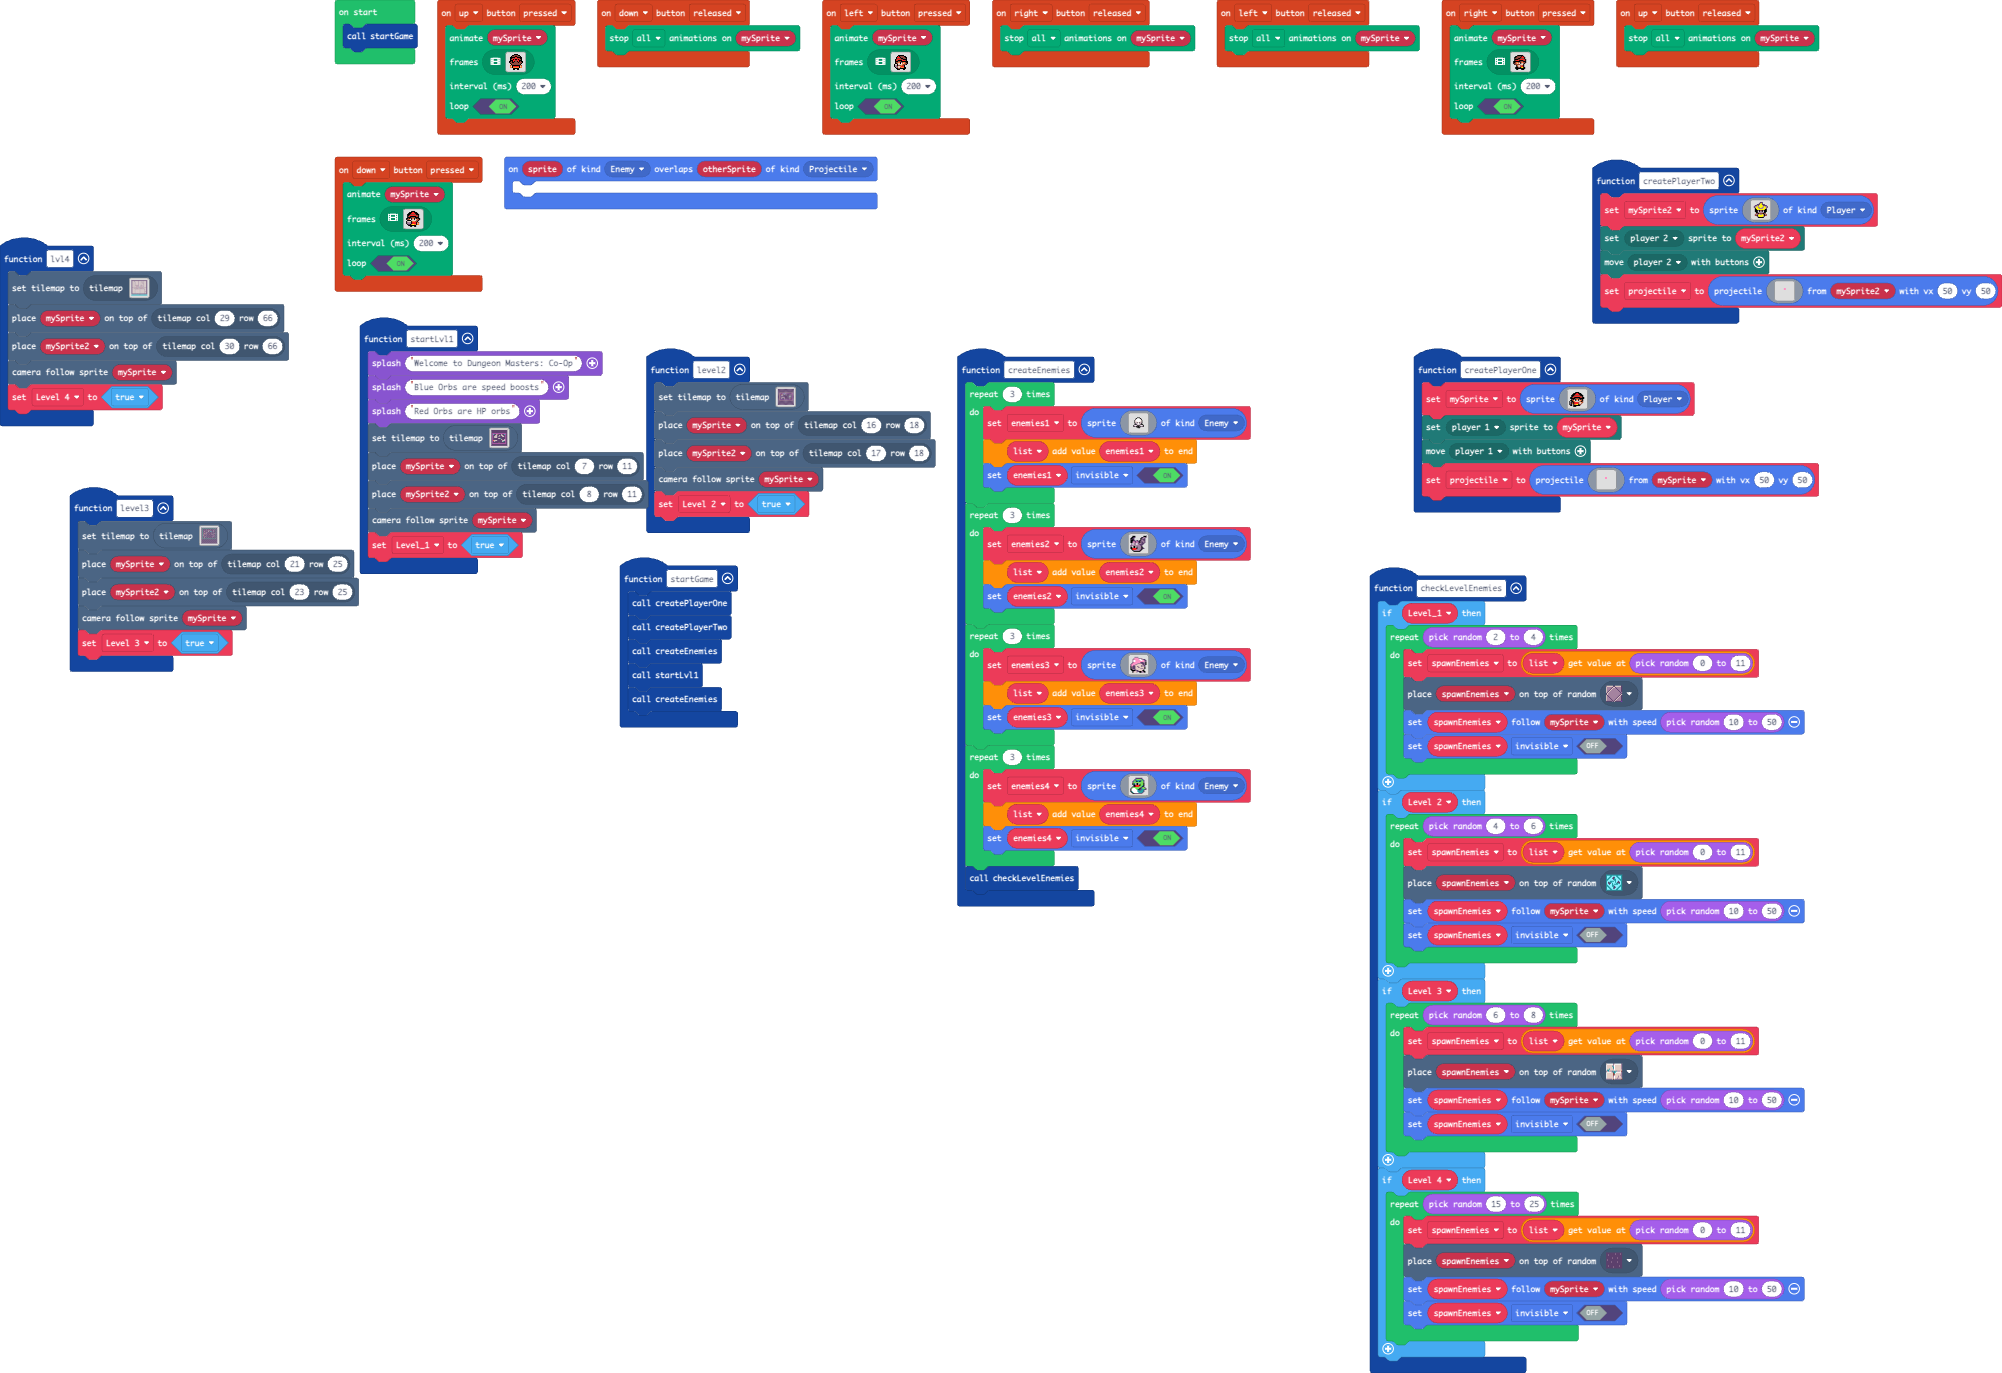
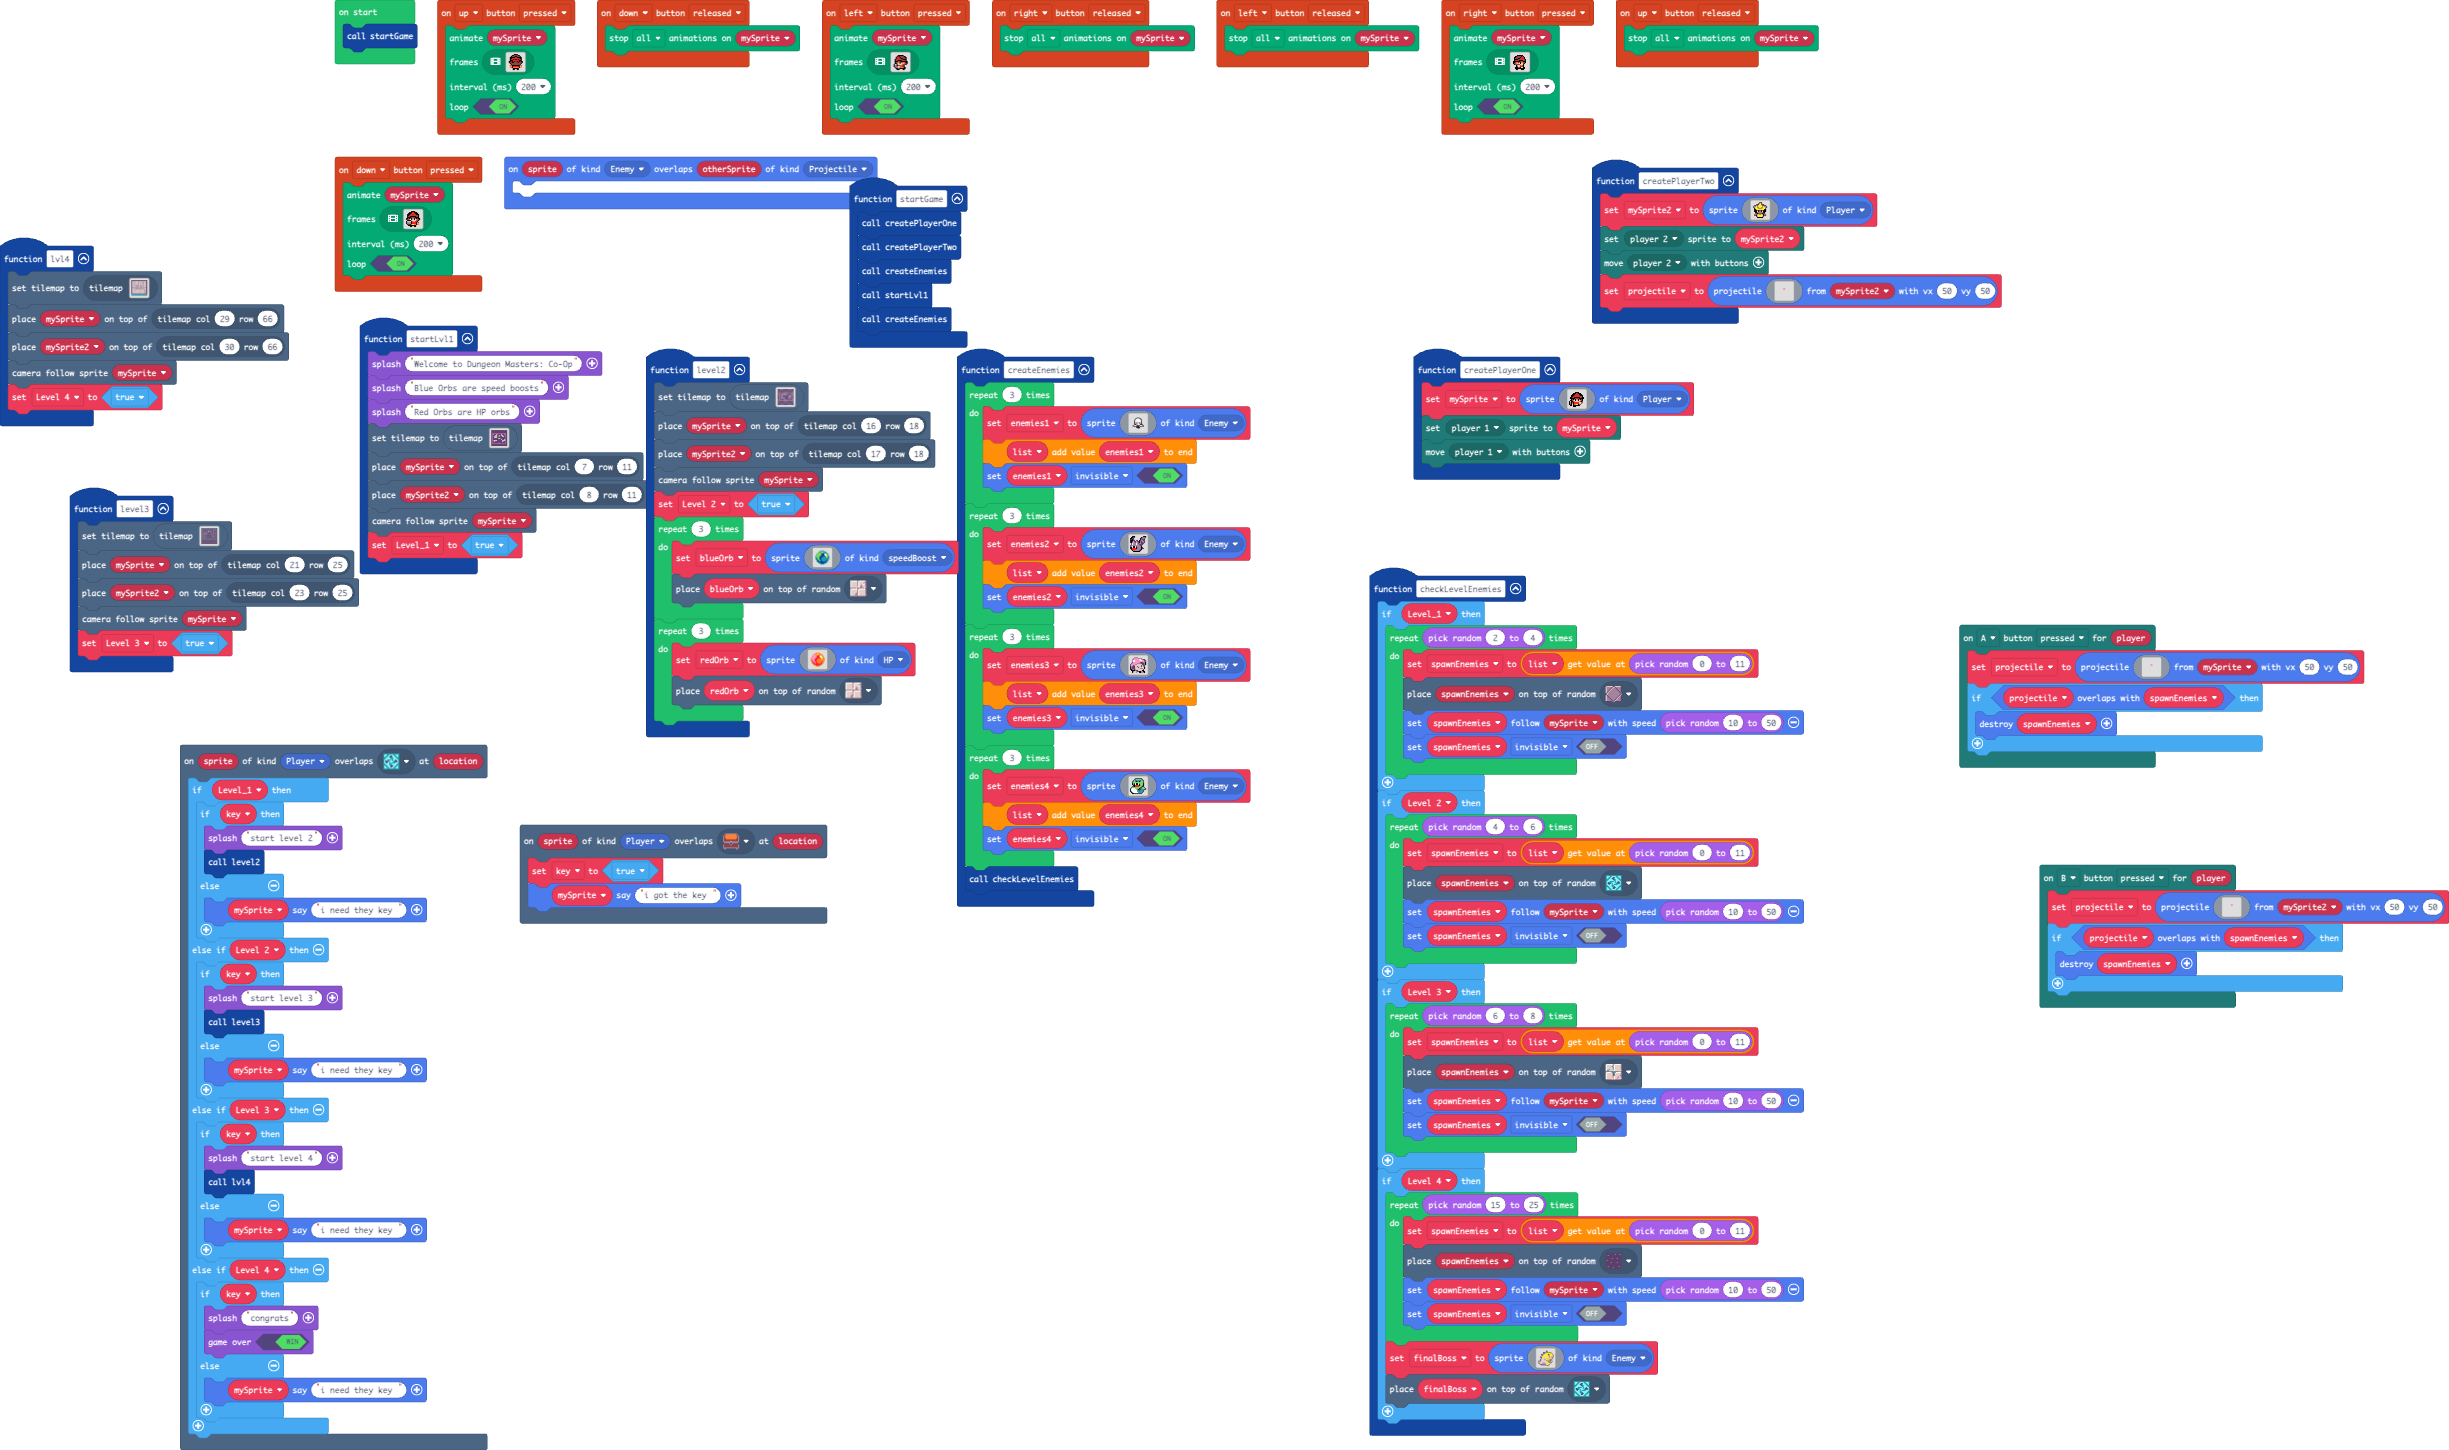
Update main.blocks, main.ts, tilemap.g.jres, tilemap.g.ts

diff --git a/tilemap.g.ts b/tilemap.g.ts
@@ -142,39 +142,6 @@ namespace myTiles {
 . . . . . . . . . . . . . . . . 
 . . . . . . . . . . . . . . . . 
 `, [myTiles.transparency16], TileScale.Sixteen);
-            case "level7":
[1 lines of base64/hex data omitted]
-..............................
-..............................
-..............................
-..............................
-..............................
-..............................
-..............................
-.........222222...............
-....222222222222222222222222..
-....2....2.....2...........2..
-....2....2.....2...........2..
-....2....2.....2......222222..
-....2.2222.....2...........2..
-....2................2222..2..
-....2................2..2..2..
-....2................2..2..2..
-....2..222222........2.....2..
-....2..2....2........2.....2..
-....2.......2........2.....2..
-....2.......2........2.....2..
-....222222222222222222222222..
-..............................
-..............................
-..............................
-..............................
-..............................
-..............................
-..............................
-..............................
-..............................
-`, [myTiles.transparency16,sprites.dungeon.darkGroundNorthWest1,sprites.dungeon.purpleOuterSouth2,sprites.dungeon.purpleOuterNorth2,sprites.dungeon.purpleOuterWest1,sprites.dungeon.purpleOuterNorthWest,sprites.dungeon.purpleOuterSouthEast,sprites.dungeon.purpleOuterSouth0,sprites.dungeon.purpleOuterSouthWest,sprites.dungeon.purpleOuterEast0,sprites.dungeon.purpleOuterNorthEast,sprites.dungeon.purpleOuterNorth1,sprites.dungeon.floorMixed,sprites.dungeon.doorLockedEast,sprites.dungeon.doorLockedNorth,sprites.dungeon.doorLockedWest,sprites.dungeon.doorLockedSouth,sprites.dungeon.chestClosed,sprites.dungeon.collectibleInsignia,sprites.dungeon.stairWest,sprites.dungeon.stairEast,sprites.dungeon.stairSouth,sprites.dungeon.darkGroundCenter,sprites.dungeon.collectibleRedCrystal,sprites.dungeon.collectibleBlueCrystal,sprites.dungeon.doorOpenSouth], TileScale.Sixteen);
             case "level5":
[1 lines of base64/hex data omitted]
 . . . . . . . . . . . . . . . . 
@@ -320,6 +287,39 @@ namespace myTiles {
 ........................................
 ........................................
 `, [myTiles.transparency16,sprites.dungeon.darkGroundSouthEast1,sprites.dungeon.greenOuterSouthEast,sprites.dungeon.greenOuterSouth0,sprites.dungeon.greenOuterEast1,sprites.dungeon.greenOuterSouthWest,sprites.dungeon.darkGroundNorthWest1,sprites.dungeon.greenOuterWest1,sprites.dungeon.greenOuterNorth0,sprites.dungeon.greenOuterNorthWest,sprites.dungeon.greenOuterNorthEast,sprites.dungeon.floorDarkDiamond,sprites.dungeon.chestClosed,sprites.dungeon.doorOpenSouth,sprites.dungeon.collectibleRedCrystal,sprites.dungeon.collectibleBlueCrystal,sprites.dungeon.collectibleInsignia,sprites.dungeon.chestOpen,sprites.dungeon.doorLockedNorth,sprites.dungeon.floorLightMoss], TileScale.Sixteen);
+            case "level7":
[1 lines of base64/hex data omitted]
+..............................
+..............................
+..............................
+..............................
+..............................
+..............................
+..............................
+.........222222...............
+....222222222222222222222222..
+....2....2.....2...........2..
+....2....2.....2...........2..
+....2....2.....2......222222..
+....2.2222.....2...........2..
+....2................2222..2..
+....2................2..2..2..
+....2................2..2..2..
+....2..222222........2.....2..
+....2..2....2........2.....2..
+....2..2....2........2.....2..
+....2.......2........2.....2..
+....222222222222222222222222..
+..............................
+..............................
+..............................
+..............................
+..............................
+..............................
+..............................
+..............................
+..............................
+`, [myTiles.transparency16,sprites.dungeon.darkGroundNorthWest1,sprites.dungeon.purpleOuterSouth2,sprites.dungeon.purpleOuterNorth2,sprites.dungeon.purpleOuterWest1,sprites.dungeon.purpleOuterNorthWest,sprites.dungeon.purpleOuterSouthEast,sprites.dungeon.purpleOuterSouth0,sprites.dungeon.purpleOuterSouthWest,sprites.dungeon.purpleOuterEast0,sprites.dungeon.purpleOuterNorthEast,sprites.dungeon.purpleOuterNorth1,sprites.dungeon.floorMixed,sprites.dungeon.doorLockedEast,sprites.dungeon.doorLockedNorth,sprites.dungeon.doorLockedWest,sprites.dungeon.doorLockedSouth,sprites.dungeon.chestClosed,sprites.dungeon.collectibleInsignia,sprites.dungeon.stairWest,sprites.dungeon.stairEast,sprites.dungeon.stairSouth,sprites.dungeon.darkGroundCenter,sprites.dungeon.doorOpenSouth,sprites.dungeon.floorLight1], TileScale.Sixteen);
         }
         return null;
     })

diff --git a/main.ts b/main.ts
@@ -1,6 +1,31 @@
 namespace SpriteKind {
     export const portal = SpriteKind.create()
+    export const speedBoost = SpriteKind.create()
+    export const HP = SpriteKind.create()
 }
+mp.onButtonEvent(mp.MultiplayerButton.B, ControllerButtonEvent.Pressed, function (player2) {
+    projectile = sprites.createProjectileFromSprite(img`
+        . . . . . . . . . . . . . . . . 
+        . . . . . . . . . . . . . . . . 
+        . . . . . . . . . . . . . . . . 
+        . . . . . . . . . . . . . . . . 
+        . . . . . . . . . . . . . . . . 
+        . . . . . . . 3 3 . . . . . . . 
+        . . . . . . . 3 3 . . . . . . . 
+        . . . . . . . . . . . . . . . . 
+        . . . . . . . . . . . . . . . . 
+        . . . . . . . . . . . . . . . . 
+        . . . . . . . . . . . . . . . . 
+        . . . . . . . . . . . . . . . . 
+        . . . . . . . . . . . . . . . . 
+        . . . . . . . . . . . . . . . . 
+        . . . . . . . . . . . . . . . . 
+        . . . . . . . . . . . . . . . . 
+        `, mySprite2, 50, 50)
+    if (projectile.overlapsWith(spawnEnemies)) {
+        sprites.destroy(spawnEnemies)
+    }
+})
 controller.up.onEvent(ControllerButtonEvent.Pressed, function () {
     animation.runImageAnimation(
     mySprite,
@@ -76,6 +101,29 @@ controller.up.onEvent(ControllerButtonEvent.Pressed, function () {
     200,
     true
     )
+})
+mp.onButtonEvent(mp.MultiplayerButton.A, ControllerButtonEvent.Pressed, function (player2) {
+    projectile = sprites.createProjectileFromSprite(img`
+        . . . . . . . . . . . . . . . . 
+        . . . . . . . . . . . . . . . . 
+        . . . . . . . . . . . . . . . . 
+        . . . . . . . . . . . . . . . . 
+        . . . . . . . . . . . . . . . . 
+        . . . . . . . 3 3 . . . . . . . 
+        . . . . . . . 3 3 . . . . . . . 
+        . . . . . . . . . . . . . . . . 
+        . . . . . . . . . . . . . . . . 
+        . . . . . . . . . . . . . . . . 
+        . . . . . . . . . . . . . . . . 
+        . . . . . . . . . . . . . . . . 
+        . . . . . . . . . . . . . . . . 
+        . . . . . . . . . . . . . . . . 
+        . . . . . . . . . . . . . . . . 
+        . . . . . . . . . . . . . . . . 
+        `, mySprite, 50, 50)
+    if (projectile.overlapsWith(spawnEnemies)) {
+        sprites.destroy(spawnEnemies)
+    }
 })
 function startGame () {
     createPlayerOne()
@@ -205,6 +253,33 @@ function checkLevelEnemies () {
             spawnEnemies.follow(mySprite, randint(10, 50))
             spawnEnemies.setFlag(SpriteFlag.Invisible, false)
         }
+        finalBoss = sprites.create(img`
+            ........................
+            ............cc..........
+            ............ccc.........
+            ........ccc.ccccccc.....
+            ........ccccc555555cc...
+            ........ccb5555555555c..
+            .....ccc.b55555ff15555c.
+            .....cccb5555555ff55555c
+            ......cb555555555555d55c
+            ....c.b555555555bb55555c
+            ....ccb555ddd5555b13bbc.
+            ....ccd55ddddd555b3335c.
+            .....cdd5ddddddd55b335c.
+            ...c.bddddb555bbbd555c..
+            ...ccdddddbb55555bccc...
+            ...ccdddddddcc555bcc....
+            .ccccdddddddddcccbcccc..
+            .cdcdddddddd55dbbbc55c..
+            .cdddddddddd555dccc5c...
+            .cbddddbbbbdd5d555cc....
+            ..cbdddbbbbbdd5555......
+            ...cccbbbbbbd5555c......
+            .....cccccccc555c.......
+            .............ccc........
+            `, SpriteKind.Enemy)
+        tiles.placeOnRandomTile(finalBoss, sprites.dungeon.collectibleInsignia)
     }
 }
 controller.right.onEvent(ControllerButtonEvent.Released, function () {
@@ -269,7 +344,53 @@ function level2 () {
     tiles.placeOnTile(mySprite2, tiles.getTileLocation(17, 18))
     scene.cameraFollowSprite(mySprite)
     Level_2 = true
+    for (let index = 0; index < 3; index++) {
+        blueOrb = sprites.create(img`
+            . . . . . . . . . . . . . . . . 
+            . . . . . . 6 6 6 6 . . . . . . 
+            . . . . 6 6 6 5 5 6 6 6 . . . . 
+            . . . 7 7 7 7 6 6 6 6 6 6 . . . 
+            . . 6 7 7 7 7 8 8 8 1 1 6 6 . . 
+            . . 7 7 7 7 7 8 8 8 1 1 5 6 . . 
+            . 6 7 7 7 7 8 8 8 8 8 5 5 6 6 . 
+            . 6 7 7 7 8 8 8 6 6 6 6 5 6 6 . 
+            . 6 6 7 7 8 8 6 6 6 6 6 6 6 6 . 
+            . 6 8 7 7 8 8 6 6 6 6 6 6 6 6 . 
+            . . 6 8 7 7 8 6 6 6 6 6 8 6 . . 
+            . . 6 8 8 7 8 8 6 6 6 8 6 6 . . 
+            . . . 6 8 8 8 8 8 8 8 8 6 . . . 
+            . . . . 6 6 8 8 8 8 6 6 . . . . 
+            . . . . . . 6 6 6 6 . . . . . . 
+            . . . . . . . . . . . . . . . . 
+            `, SpriteKind.speedBoost)
+        tiles.placeOnRandomTile(blueOrb, sprites.dungeon.floorLight1)
+    }
+    for (let index = 0; index < 3; index++) {
+        redOrb = sprites.create(img`
+            . . . . . . . . . . . . . . . . 
+            . . . . . . 4 4 4 4 . . . . . . 
+            . . . . 4 4 4 5 5 4 4 4 . . . . 
+            . . . 3 3 3 3 4 4 4 4 4 4 . . . 
+            . . 4 3 3 3 3 2 2 2 1 1 4 4 . . 
+            . . 3 3 3 3 3 2 2 2 1 1 5 4 . . 
+            . 4 3 3 3 3 2 2 2 2 2 5 5 4 4 . 
+            . 4 3 3 3 2 2 2 4 4 4 4 5 4 4 . 
+            . 4 4 3 3 2 2 4 4 4 4 4 4 4 4 . 
+            . 4 2 3 3 2 2 4 4 4 4 4 4 4 4 . 
+            . . 4 2 3 3 2 4 4 4 4 4 2 4 . . 
+            . . 4 2 2 3 2 2 4 4 4 2 4 4 . . 
+            . . . 4 2 2 2 2 2 2 2 2 4 . . . 
+            . . . . 4 4 2 2 2 2 4 4 . . . . 
+            . . . . . . 4 4 4 4 . . . . . . 
+            . . . . . . . . . . . . . . . . 
+            `, SpriteKind.HP)
+        tiles.placeOnRandomTile(redOrb, sprites.dungeon.floorLight1)
+    }
 }
+scene.onOverlapTile(SpriteKind.Player, sprites.dungeon.chestClosed, function (sprite, location) {
+    key = true
+    mySprite.sayText("i got the key ")
+})
 controller.right.onEvent(ControllerButtonEvent.Pressed, function () {
     animation.runImageAnimation(
     mySprite,
@@ -552,36 +673,53 @@ function createPlayerOne () {
         `, SpriteKind.Player)
     mp.setPlayerSprite(mp.playerSelector(mp.PlayerNumber.One), mySprite)
     mp.moveWithButtons(mp.playerSelector(mp.PlayerNumber.One))
-    projectile = sprites.createProjectileFromSprite(img`
-        . . . . . . . . . . . . . . . . 
-        . . . . . . . . . . . . . . . . 
-        . . . . . . . . . . . . . . . . 
-        . . . . . . . . . . . . . . . . 
-        . . . . . . . . . . . . . . . . 
-        . . . . . . . 3 3 . . . . . . . 
-        . . . . . . . 3 3 . . . . . . . 
-        . . . . . . . . . . . . . . . . 
-        . . . . . . . . . . . . . . . . 
-        . . . . . . . . . . . . . . . . 
-        . . . . . . . . . . . . . . . . 
-        . . . . . . . . . . . . . . . . 
-        . . . . . . . . . . . . . . . . 
-        . . . . . . . . . . . . . . . . 
-        . . . . . . . . . . . . . . . . 
-        . . . . . . . . . . . . . . . . 
-        `, mySprite, 50, 50)
 }
+scene.onOverlapTile(SpriteKind.Player, sprites.dungeon.collectibleInsignia, function (sprite, location) {
+    if (Level_1) {
+        if (key) {
+            game.splash("start level 2")
+            level2()
+        } else {
+            mySprite.sayText("i need they key ")
+        }
+    } else if (Level_2) {
+        if (key) {
+            game.splash("start level 3")
+            level3()
+        } else {
+            mySprite.sayText("i need they key ")
+        }
+    } else if (Level_3) {
+        if (key) {
+            game.splash("start level 4")
+            lvl4()
+        } else {
+            mySprite.sayText("i need they key ")
+        }
+    } else if (Level_4) {
+        if (key) {
+            game.splash("congrats")
+            game.gameOver(true)
+        } else {
+            mySprite.sayText("i need they key ")
+        }
+    }
+})
 let enemies4: Sprite = null
 let enemies3: Sprite = null
 let enemies2: Sprite = null
 let enemies1: Sprite = null
-let projectile: Sprite = null
+let key = false
+let redOrb: Sprite = null
+let blueOrb: Sprite = null
+let finalBoss: Sprite = null
 let Level_4 = false
 let Level_2 = false
 let list: Sprite[] = []
-let spawnEnemies: Sprite = null
 let Level_1 = false
 let Level_3 = false
-let mySprite2: Sprite = null
 let mySprite: Sprite = null
+let spawnEnemies: Sprite = null
+let mySprite2: Sprite = null
+let projectile: Sprite = null
 startGame()
